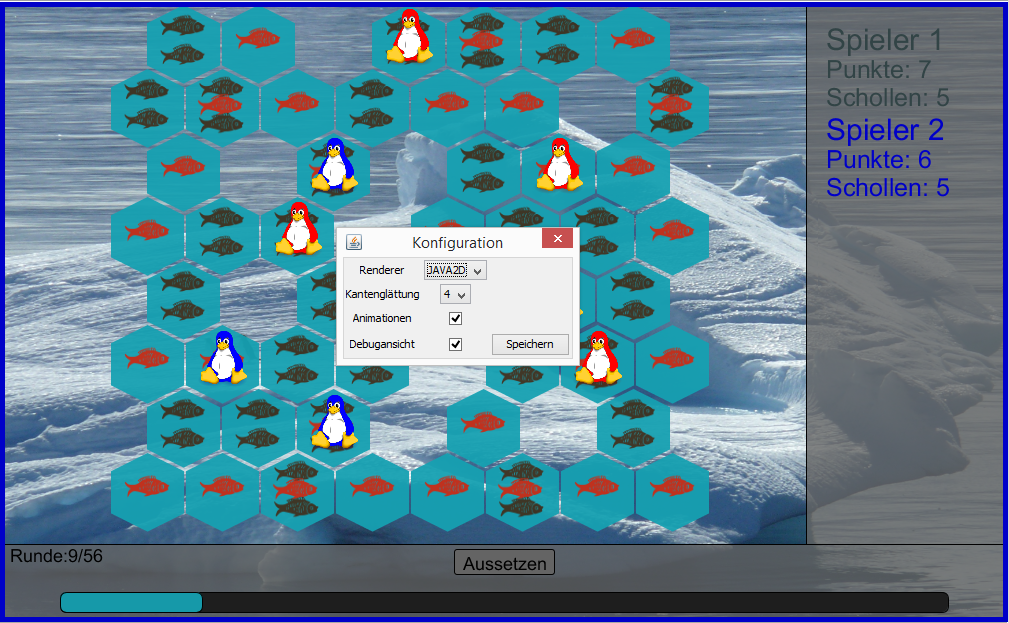
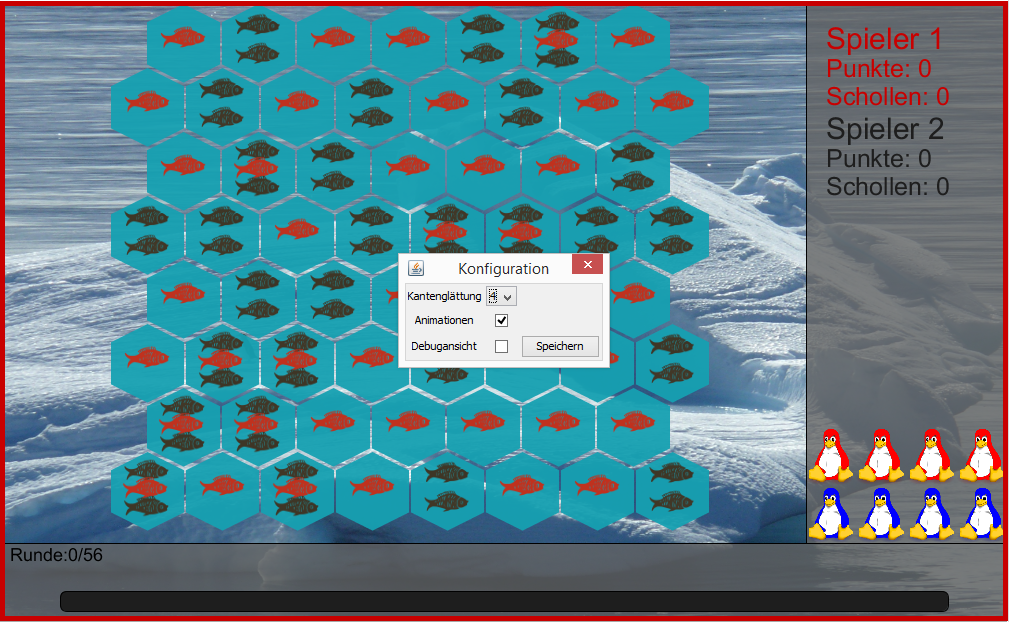
debughints

diff --git a/game_plugins/hey_danke_fuer_den_fisch/client/sc/plugin2015/gui/renderer/RenderConfigurationDialog.java b/game_plugins/hey_danke_fuer_den_fisch/client/sc/plugin2015/gui/renderer/RenderConfigurationDialog.java
@@ -18,7 +18,7 @@ import processing.core.PApplet;
 @SuppressWarnings("serial")
 public class RenderConfigurationDialog extends JDialog {
 
-	private JComboBox rendererCombo;
+	//private JComboBox rendererCombo;
 	private JComboBox antiAliasingCombo;
 	private JCheckBox animationCheckBox;
 	private JCheckBox debugCheckBox;
@@ -46,10 +46,10 @@ public class RenderConfigurationDialog extends JDialog {
 
 		gbc.gridx = 0;
 		gbc.gridy = 0;
-
+/*
 		rendererCombo = new JComboBox(RenderConfiguration.RendererStrings);
 		rendererCombo.setSelectedItem(RenderConfiguration.optionRenderer);
-
+*/
 		antiAliasingCombo = new JComboBox(RenderConfiguration.AntialiasingModes);
 		antiAliasingCombo
 				.setSelectedItem(RenderConfiguration.optionAntiAliasing);
@@ -59,10 +59,10 @@ public class RenderConfigurationDialog extends JDialog {
 
 		debugCheckBox = new JCheckBox();
 		debugCheckBox.setSelected(RenderConfiguration.optionDebug);
-		add(new JLabel(RenderConfiguration.OPTION_NAMES[0]), gbc);
+		//add(new JLabel(RenderConfiguration.OPTION_NAMES[0]), gbc);
 
 		gbc.gridx = 1;
-		add(rendererCombo, gbc);
+		//add(rendererCombo, gbc);
 
 		gbc.gridx = 0;
 		gbc.gridy = 1;
@@ -92,8 +92,10 @@ public class RenderConfigurationDialog extends JDialog {
 
 			@Override
 			public void actionPerformed(ActionEvent e) {
+				/*
 				RenderConfiguration.optionRenderer = (String) rendererCombo
 						.getSelectedItem();
+						*/
 				RenderConfiguration.optionAntiAliasing = (Integer) antiAliasingCombo
 						.getSelectedItem();
 				RenderConfiguration.optionAnimation = animationCheckBox

diff --git a/game_plugins/hey_danke_fuer_den_fisch/client/sc/plugin2015/gui/renderer/primitives/SideBar.java b/game_plugins/hey_danke_fuer_den_fisch/client/sc/plugin2015/gui/renderer/primitives/SideBar.java
@@ -104,8 +104,13 @@ public class SideBar extends PrimitiveBase {
 			parent.textSize(GuiConstants.fontSizes[1]);
 			parent.fill(GuiConstants.colorDarkGrey);
 			parent.text(parent.frameRate, 0, 0);
+			if(parent.currentGameState != null && parent.currentGameState.getLastMove() != null)
+				for(int i = 0; i < parent.currentGameState.getLastMove().getHints().size(); i++){
+					parent.translate(0, parent.textAscent() + parent.textDescent());
+					parent.text(parent.currentGameState.getLastMove().getHints().get(i).getContent(), 0, 0);
+				}
 		}
-
+		
 		parent.popMatrix();
 
 		parent.popStyle();
